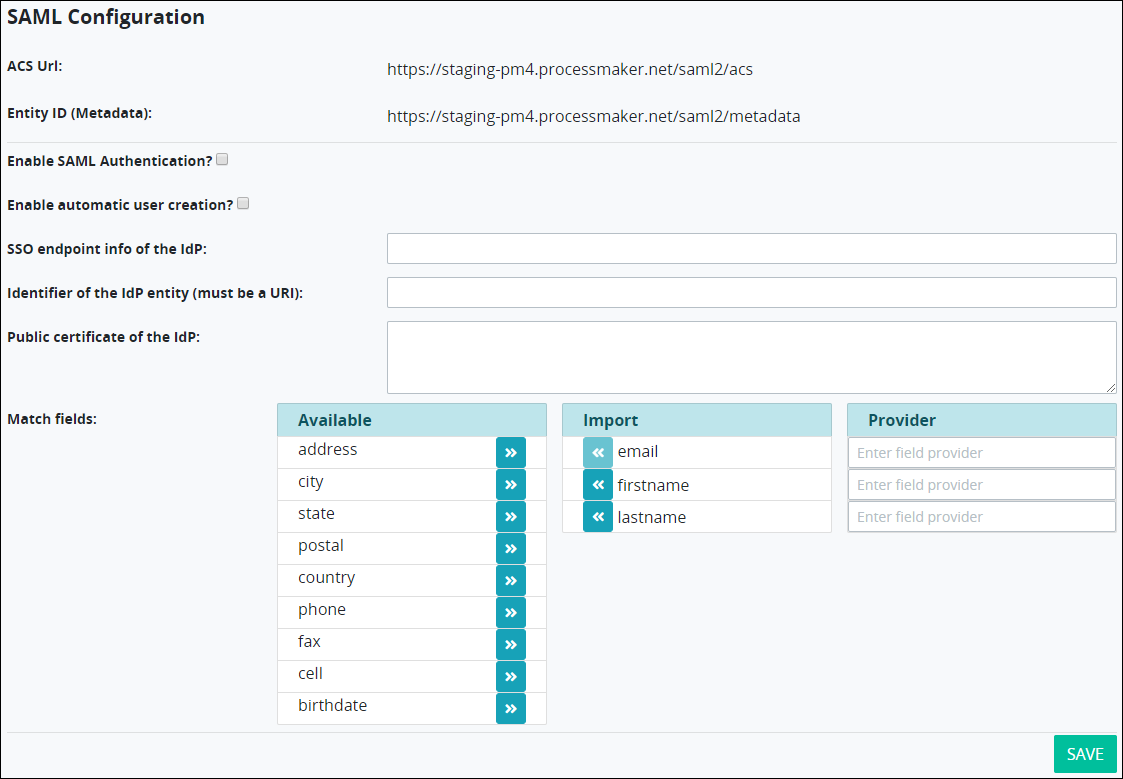
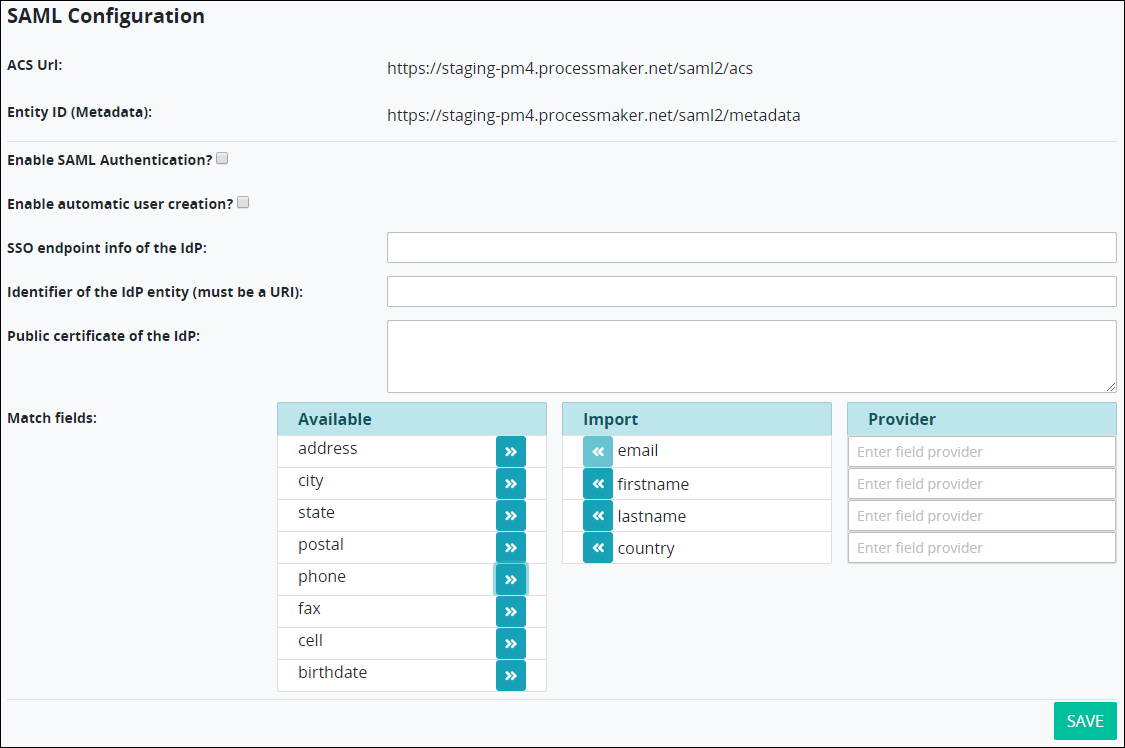
GitBook: [processmaker] one page and 2 assets modified

diff --git a/processmaker-administration/single-sign-on-to-processmaker-via-saml/view-the-saml-settings.md b/processmaker-administration/single-sign-on-to-processmaker-via-saml/view-the-saml-settings.md
@@ -1,7 +1,7 @@
 ---
 description: >-
-  Configure the ProcessMaker SAML package to single sign-on (SSO) to your
-  ProcessMaker instance.
+  Configure the ProcessMaker SAML package to single sign-on to your ProcessMaker
+  instance.
 ---
 
 # Configure Single Sign-On \(SSO\) Via SAML
@@ -18,7 +18,7 @@ Follow these steps to configure SAML settings to single sign-on to your ProcessM
 
 1. [Log on](../../using-processmaker/log-in.md#log-in) to ProcessMaker.
 2. Click the **Admin** option from the top menu. The **Users** page displays.
-3. Click the **Auth SAML** icon![](../../.gitbook/assets/auth-saml-icon-package-admin.png). The **SAML Configuration** page displays the settings for the SAML package.  ![](../../.gitbook/assets/saml-configuration-package-admin.png) 
+3. Click the **Auth SAML** icon![](../../.gitbook/assets/auth-saml-icon-package-admin.png). The **SAML Configuration** page displays the settings for the SAML package. ![](../../.gitbook/assets/saml-configuration-package-admin.png) 
 4. Document the following URLs to provide to the identity provider from which you will single sign-on to your ProcessMaker instance:
    * **ACS Url:** The **ACS Url** field displays the Assertive Customer Service \(ACS\) URL. This URL is your ProcessMaker instance that accepts messages or SAML artifacts from the service provider to establish the SSO session.
    * **Entity ID \(Metadata\):** The **Entity ID \(Metadata\)** field displays the URL to the SAML XML files in your ProcessMaker instance that the service provider uses to build the authentication response when establishing the SSO session.
@@ -27,18 +27,29 @@ Follow these steps to configure SAML settings to single sign-on to your ProcessM
 7. In the **SSO endpoint info of the IdP** field, enter the identity provider URL from which ProcessMaker retrieves the authentication response and validates it when establishing the SSO session. Your identity provider provides you this URL. This is a required field.
 8. In the **Identifier of the IdP entity \(must be a URI\)** field, enter the URL that references the SAML XML file for the identity provider \(IdP\). Your identity provider provides you this URL. Example: `https://idp_name.example.com/idp`. This is a required field.
 9. In the **Public certificate of the IdP** field, enter the URL that references the identity provider's certificate fingerprint. Your identity provider provides you this URL. ProcessMaker retrieves the authentication response and validates it using the identity provider's certificate fingerprint. This is a required field.
-10. Use the **Match fields** section to configure which components from the identity provider that ProcessMaker uses in the authentication response when establishing the SSO session. This is a required setting. Specify the components ProcessMaker uses to authenticate an SSO session by including them in the **Import** column. By default, ProcessMaker authenticates using the following components:
+10. Use the **Match fields** section to configure which components from the identity provider that ProcessMaker uses to authenticate a person establishing a SSO session. This is a required setting.  
+    ![](../../.gitbook/assets/saml-configuration-match-fields-package-admin.png) 
 
-    * **email:** The `email` component authenticates using the email address.
-    * **firstname:** The `firstname` component authenticates using a person's first name.
-    * **lastname:** The `lastname` component authenticates using a person's last name.
-    * **country:** The `country` component authenticates using a person's country code.
+    Follow these guidelines to configure which components from the identity provider that ProcessMaker uses to authenticate a person establishing a SSO session:
 
-    Follow these guidelines:
+    * **Available:** The **Available** column displays components that can be used for authentication but are not presently configured to do so. Use the right arrow![](../../.gitbook/assets/right-arrow-saml-configuration-package-admin.png)to move a selected component from the **Available** column to the **Import** column, thereby using that component for authentication.
+    * **Import:** The **Import** column displays components to be used for authentication. Use the left arrow![](../../.gitbook/assets/left-arrow-saml-configuration-package-admin.png)to move a selected component from the **Import** column to the **Available** column, thereby not using that component for authentication.
+    * **Provider:** When a component is in the **Import** column, enter the required attribute ProcessMaker expects from the identity provider during the authentication response to validate a person establishing a SSO session.
 
-    * **Available:** Use the right arrow![](../../.gitbook/assets/right-arrow-saml-configuration-package-admin.png)to move a selected component from the **Available** column to the **Import** column, thereby using that component for authentication.
-    * **Import:** Use the left arrow![](../../.gitbook/assets/left-arrow-saml-configuration-package-admin.png)to move a selected component from the **Import** column to the **Available** column, thereby not using that component for authentication.
-    * **Provider:** 
+    Below is a description of all components in the **Match fields** section, listed alphabetically:
+
+    * **address:** Use the **address** component to authenticate a person's address.
+    * **birthdate:** 
+    * **cell:** 
+    * **city:** 
+    * **country:** The country component authenticates using a person's country code.
+    * **email:** The email component authenticates using the email address. This component is used for authentication by default.
+    * **fax:** 
+    * **firstname:** The firstname component authenticates using a person's first name. This component is used for authentication by default.
+    * **lastname:** The lastname component authenticates using a person's last name. This component is used for authentication by default.
+    * **phone:** 
+    * **postal:** 
+    * **state:** 
 
 11. Click **Save**.
 
